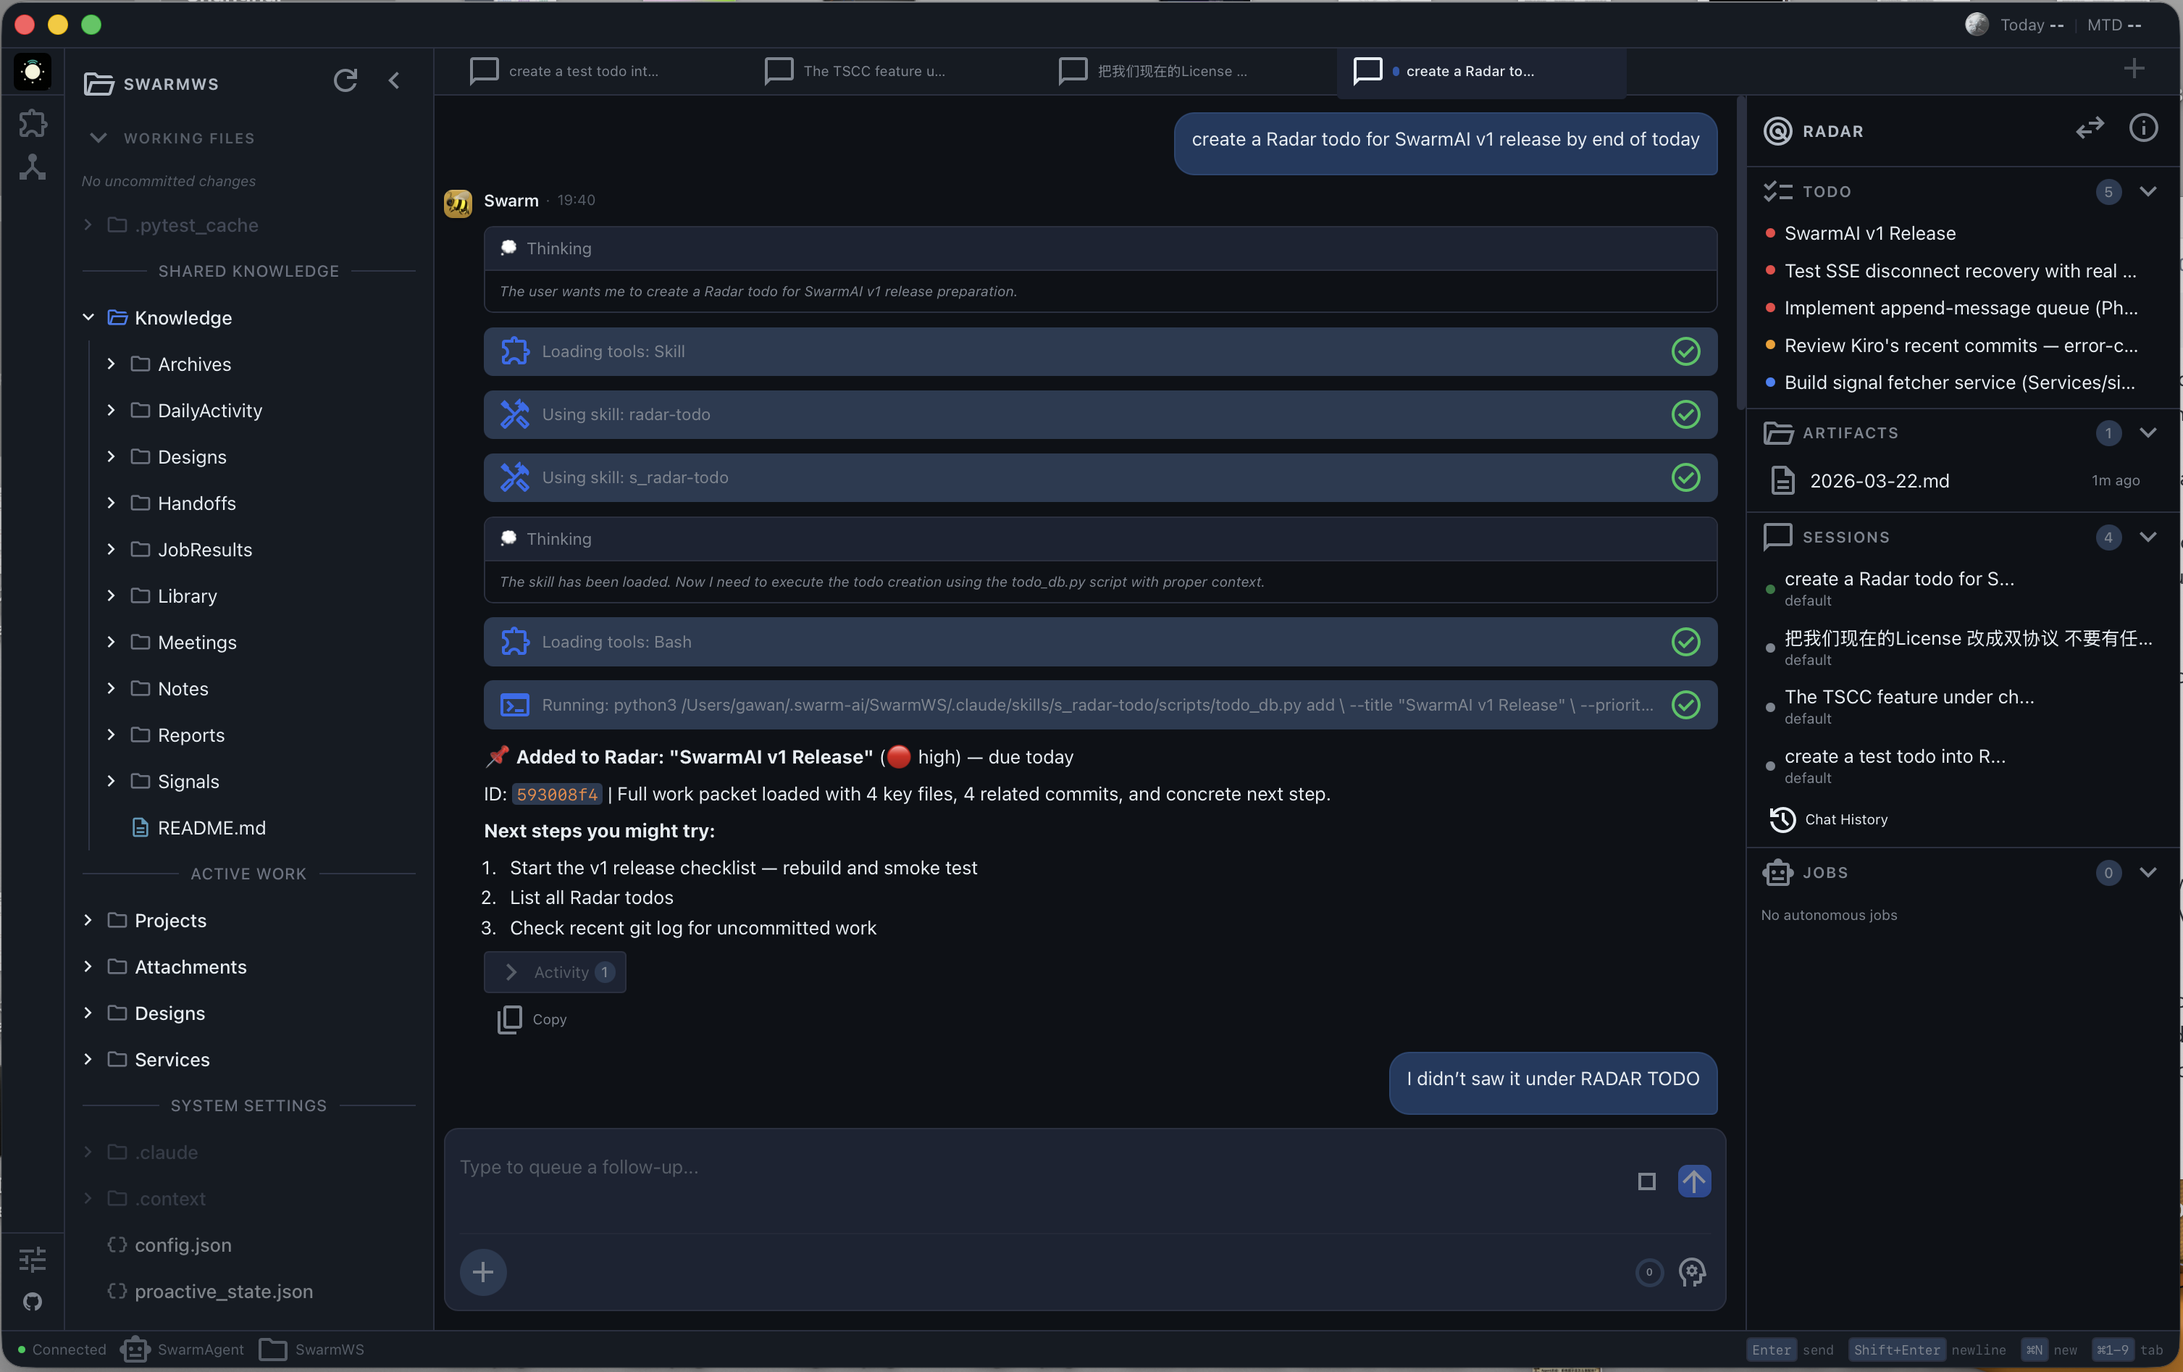
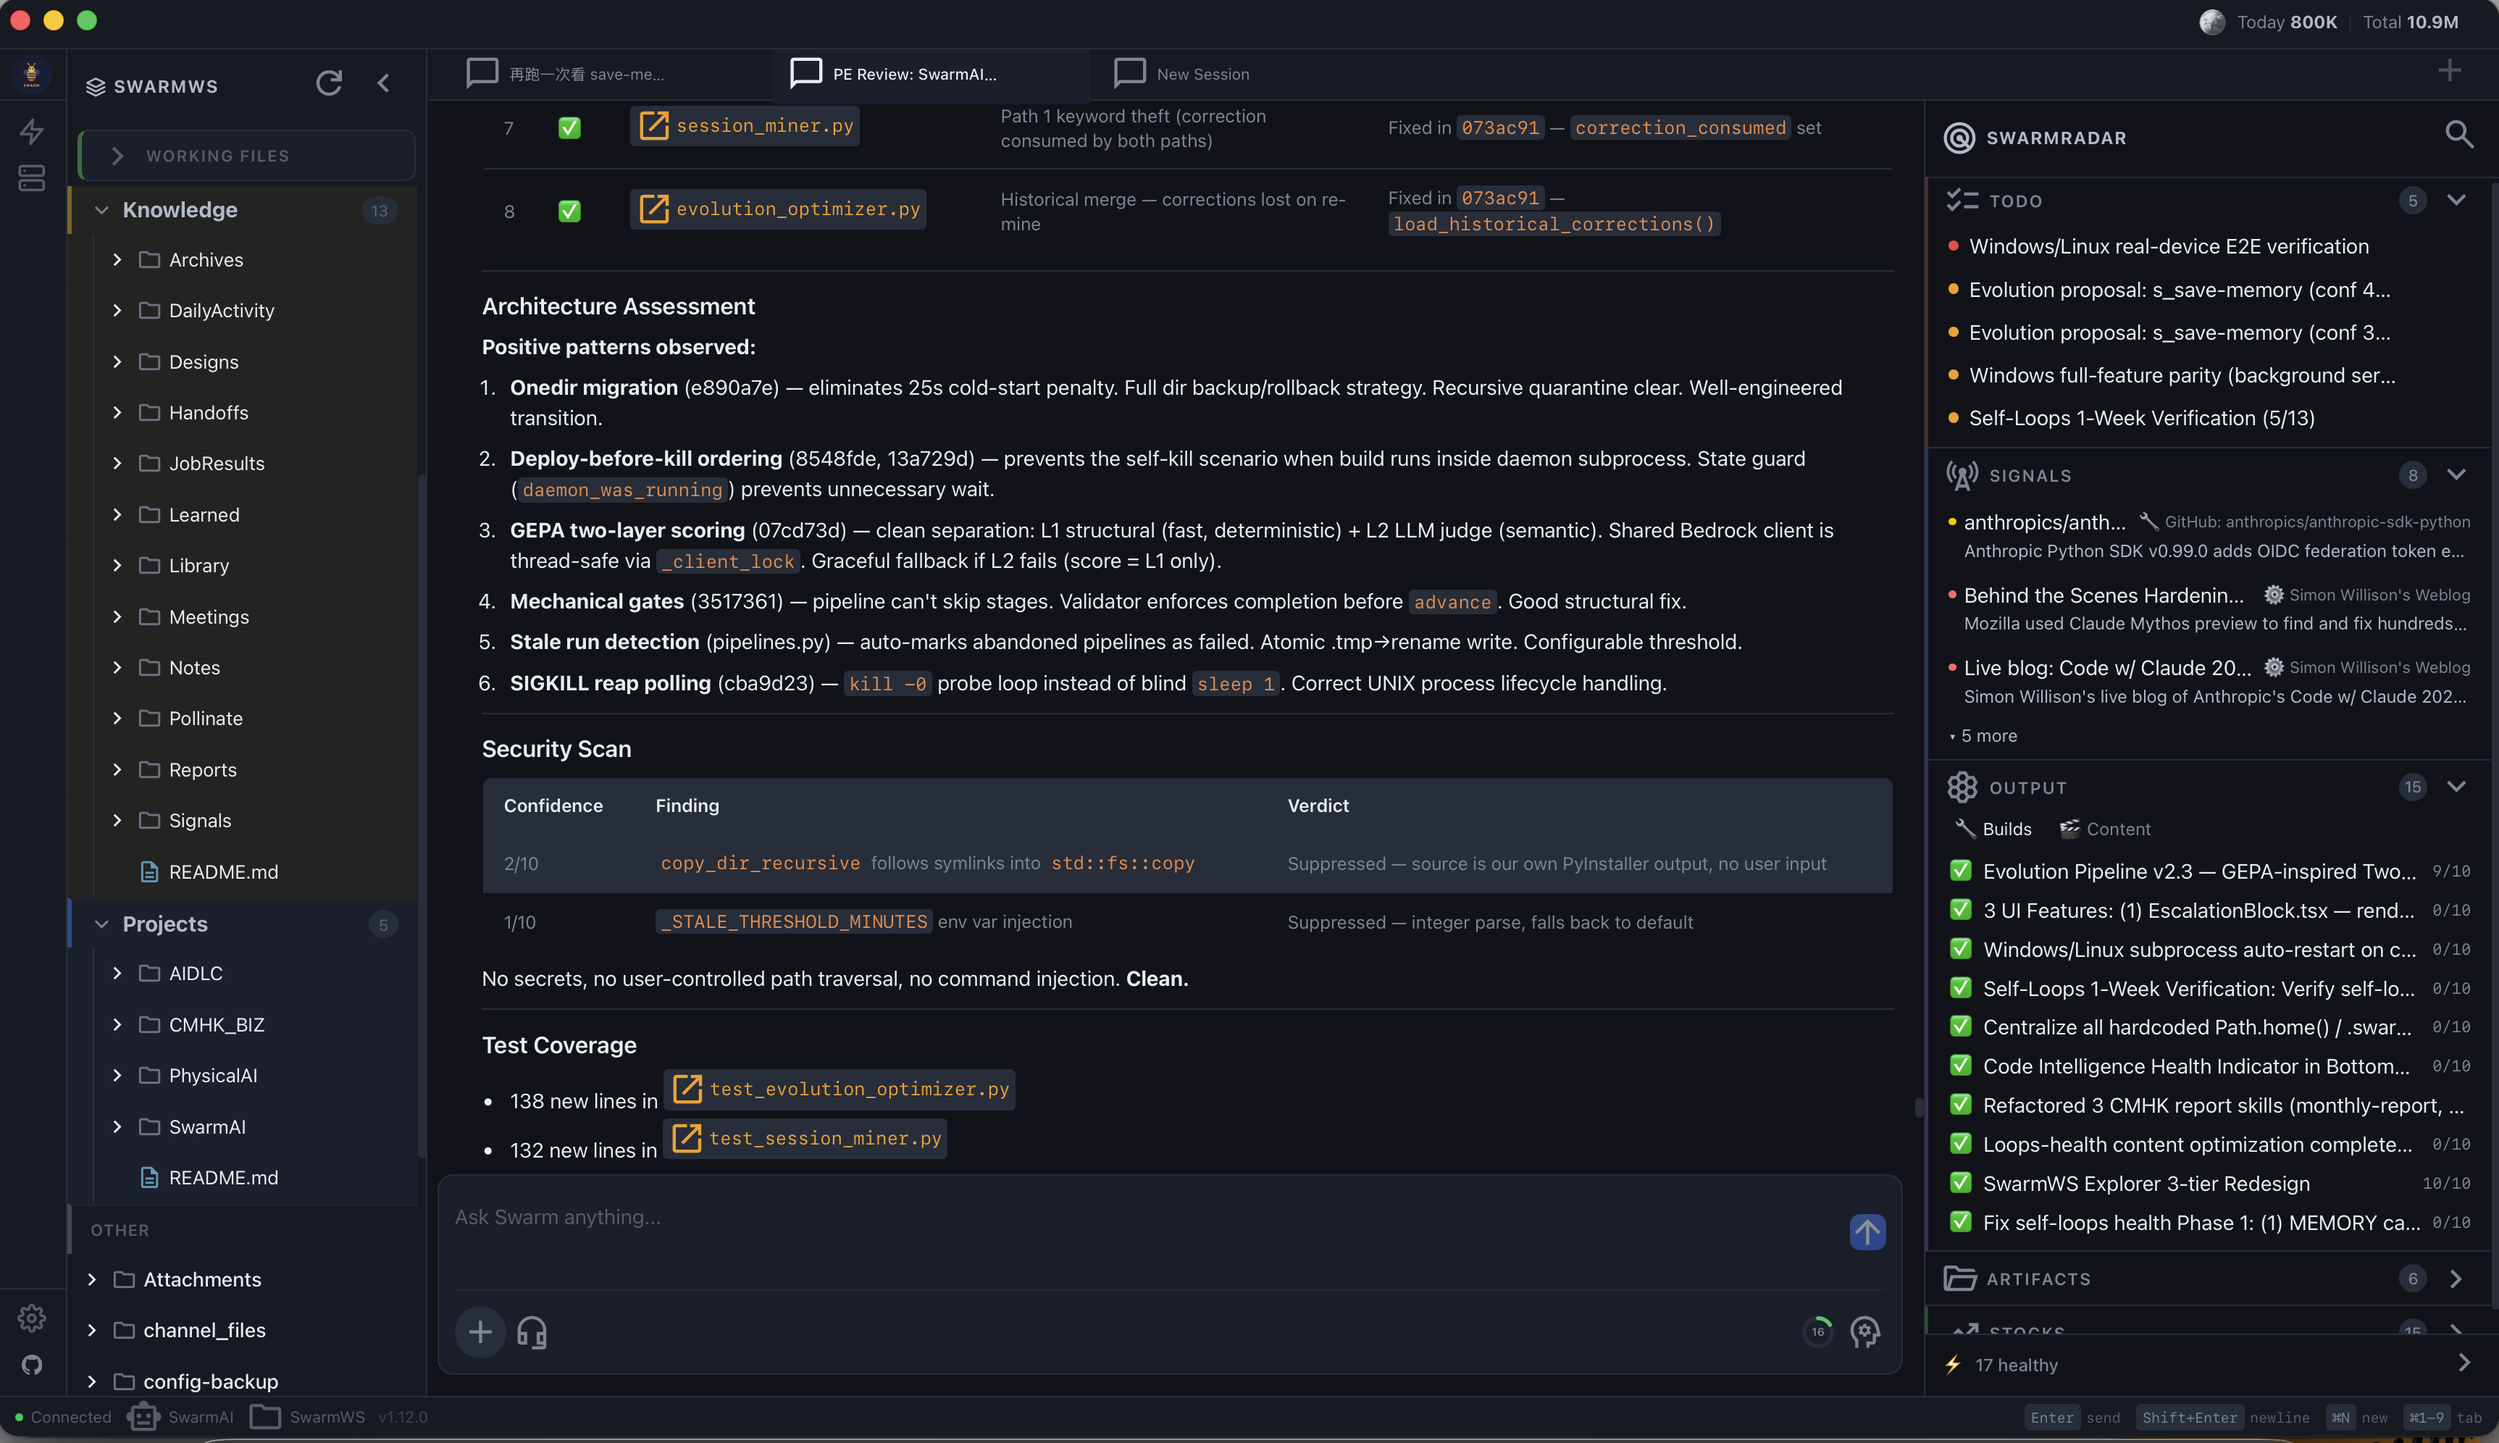
docs: update README screenshots and add swarm-4.png

diff --git a/README.md b/README.md
@@ -135,6 +135,8 @@ Deploy your AI team to the cloud in one click. Same brain, same skills, accessib
 
 ![SwarmAI Workspace](./assets/swarm-3.png)
 
+![SwarmAI Workspace](./assets/swarm-4.png)
+
 ---
 
 ## Architecture — Six Self-Growing Flywheels
